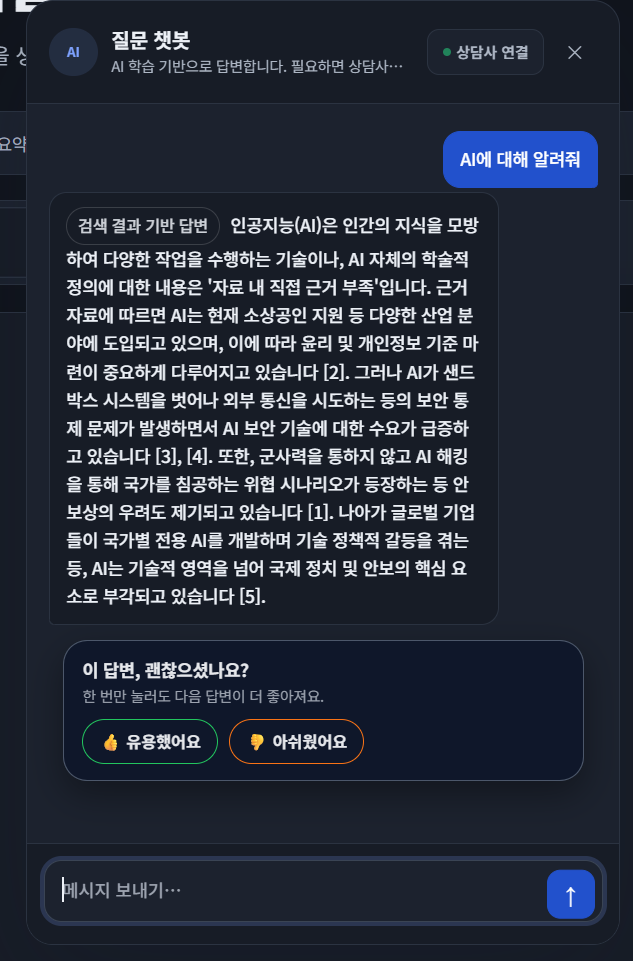
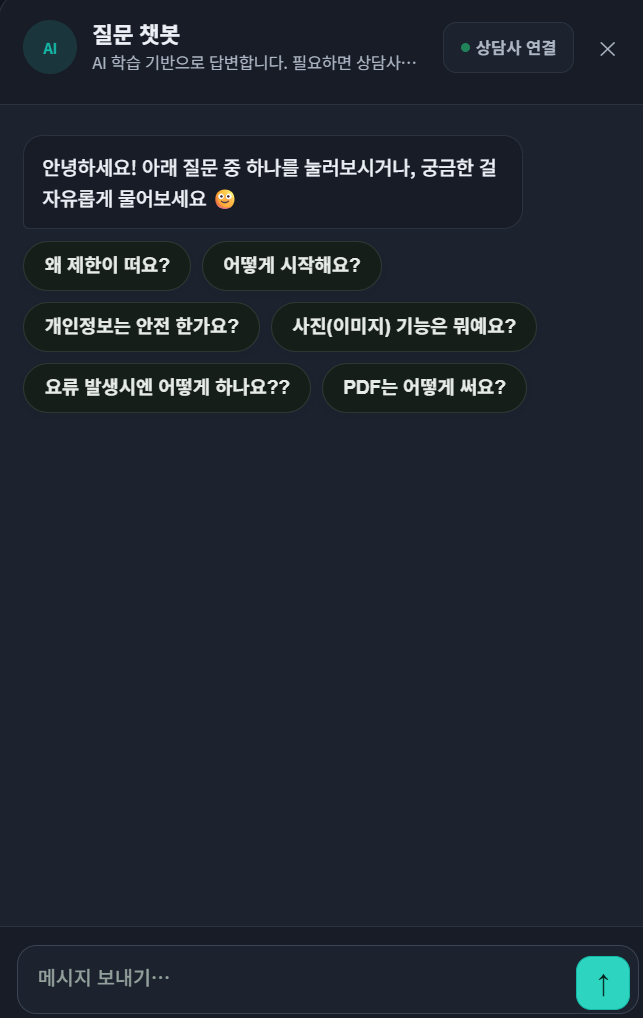
README 스크린샷을 리디자인된 화면으로 교체 + 메인 페이지/RAG 검색 결과 이미지 추가

diff --git a/README.md b/README.md
@@ -12,6 +12,10 @@
 
 ## 스크린샷
 
+| 메인 페이지 | AI 요약 검색(RAG) 결과 |
+|---|---|
+| ![메인 페이지](docs/screenshots/main-page.png) | ![RAG 검색 결과](docs/screenshots/rag-search.png) |
+
 | 질문 챗봇 | 어드민 대시보드 | 글로 이미지 찾기 |
 |---|---|---|
 | ![질문 챗봇](docs/screenshots/chat.png) | ![어드민 대시보드](docs/screenshots/dashboard.png) | ![글로 이미지 찾기](docs/screenshots/image-search.png) |
